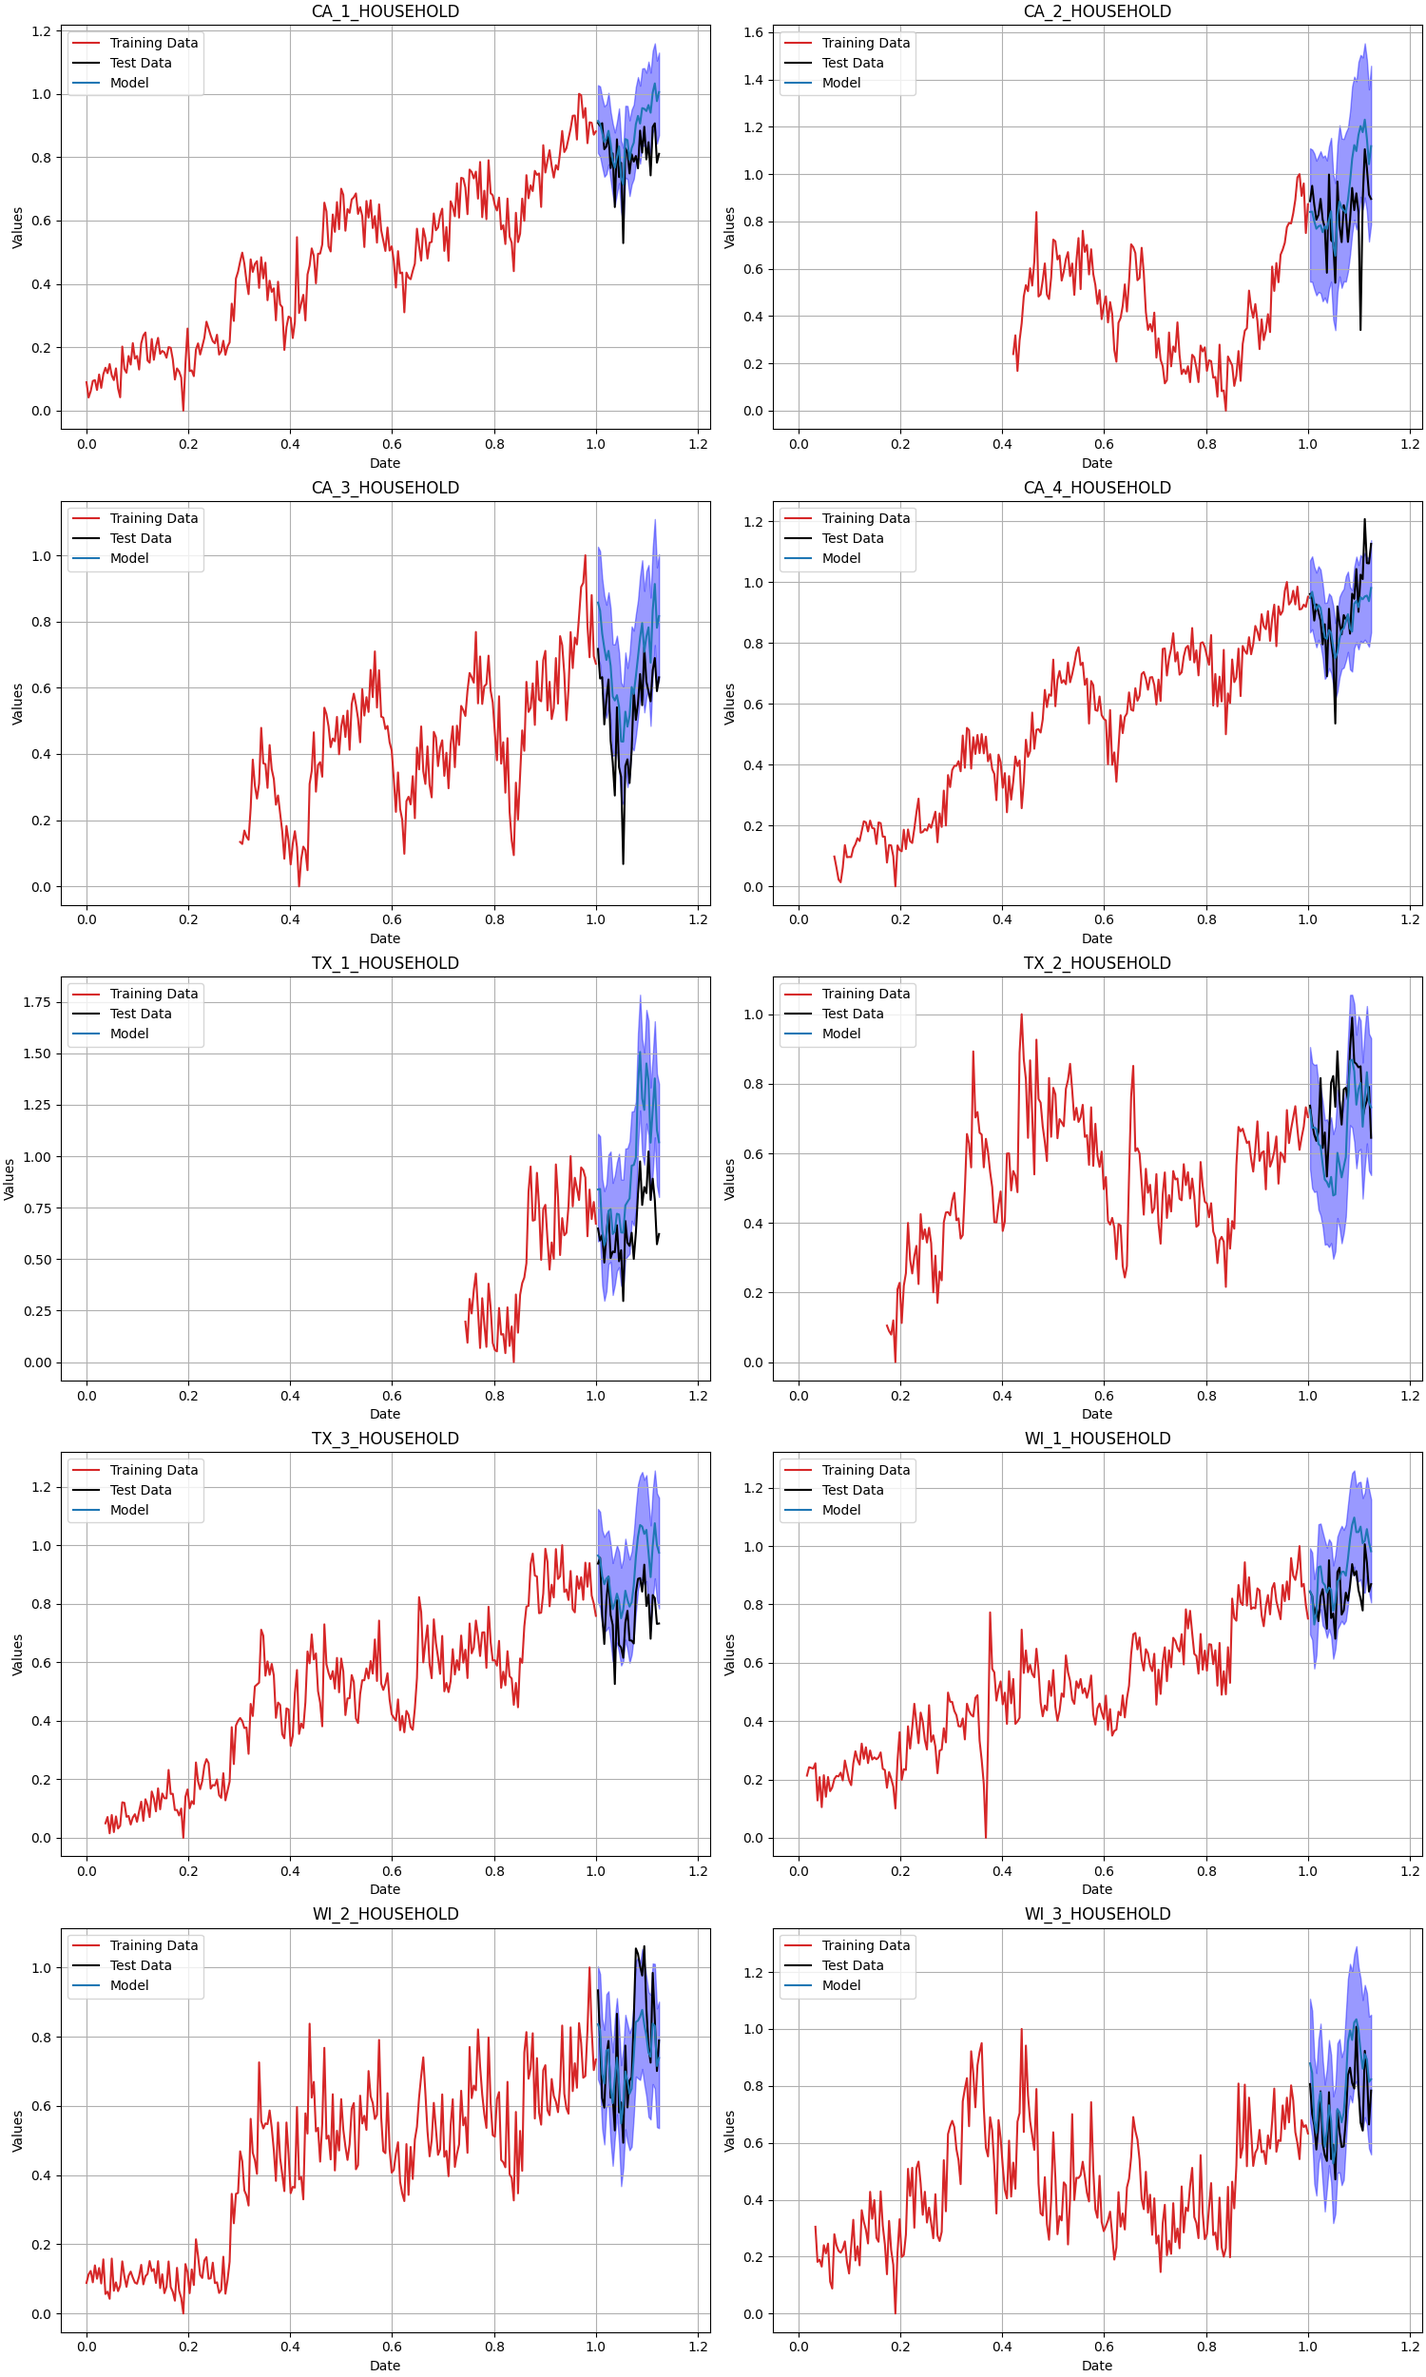
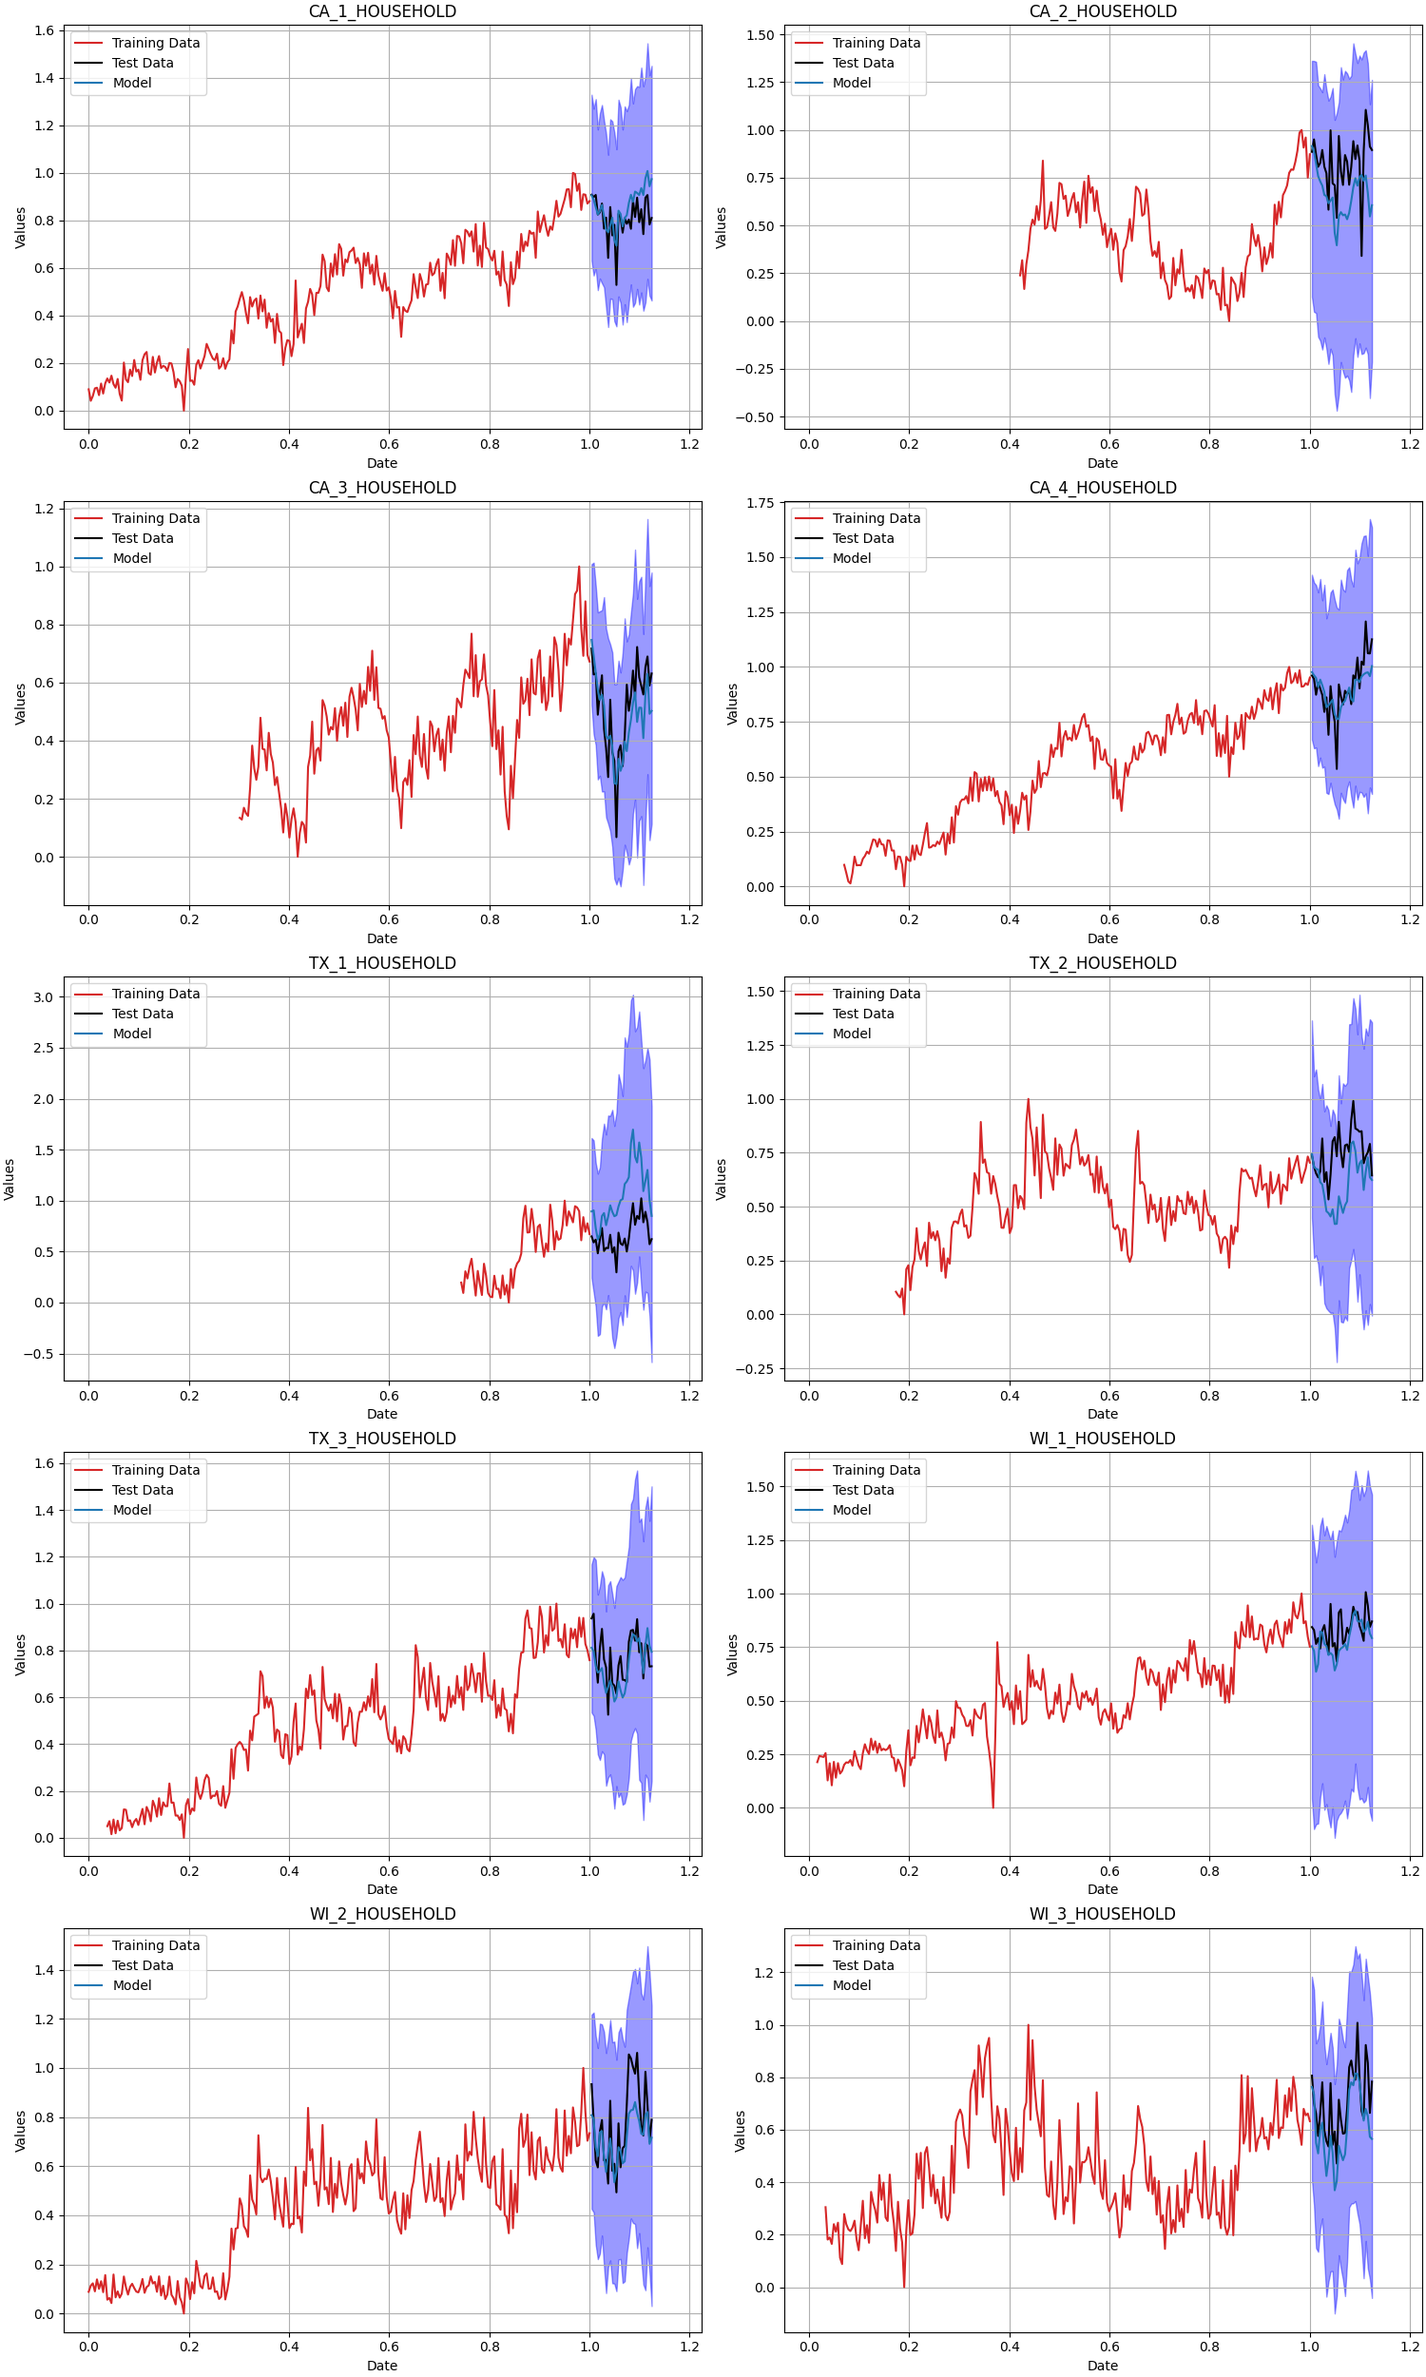
a first version of including an autoregressive term

diff --git a/src/sorcerer/sorcerer_model.py b/src/sorcerer/sorcerer_model.py
@@ -23,7 +23,7 @@ from sorcerer.config import (
     serialize_model_config,
 )
 
-from sorcerer.model_components import generate_mean
+from sorcerer.model_components import trend_and_fourier_terms
 
 from sorcerer.utils import (
     generate_hash_id,
@@ -58,23 +58,52 @@ class SorcererModel:
         
     def build_model(self, X, Y):        
         with pm.Model() as self.training_model:
-            target_mean = generate_mean(
+            trend_and_fourier_parts = trend_and_fourier_terms(
                     X = X,
                     baseline_slope = self.baseline_slope,
                     baseline_bias = self.baseline_bias,
                     model_config = self.model_config,
                     model = self.training_model
                     )
+            if self.model_config['autoregressive_order'] > 0:
+                number_of_time_series = self.baseline_slope.shape[0]
+                rho = pm.Normal(
+                    name = 'rho',
+                    mu = self.model_config['rho_mu_prior'],
+                    sigma = self.model_config['rho_sigma_prior'],
+                    shape = (number_of_time_series, self.model_config['autoregressive_order'])
+                    )
+                ar_precision_prior = pm.Gamma(
+                    name = 'ar_precision_prior',
+                    alpha = self.model_config['ar_precision_alpha_prior'],
+                    beta = self.model_config['ar_precision_beta_prior']
+                    )  
+                initial_distribution = pm.Normal.dist(
+                    mu = self.model_config['init_mu_prior'],
+                    sigma = self.model_config['init_sigma_prior'],
+                    shape = (number_of_time_series, self.model_config['autoregressive_order'])
+                    )
+                autoregressive_part = pm.AR(
+                    name = 'autoregressive_part',
+                    rho = rho,
+                    sigma = 1/ar_precision_prior,
+                    init_dist = initial_distribution,
+                    constant = False,
+                    dims = ['number_of_time_series', 'number_of_observations']
+                ).T
+            else:
+                autoregressive_part = 0
+   
             precision_target = pm.Gamma(
-            'precision_target_distribution',
-            alpha = self.model_config["precision_target_distribution_prior_alpha"],
-            beta = self.model_config["precision_target_distribution_prior_beta"],
-            dims = 'number_of_time_series'
+                name = 'precision_target',
+                alpha = self.model_config["precision_target_distribution_prior_alpha"],
+                beta = self.model_config["precision_target_distribution_prior_beta"],
+                shape = number_of_time_series
             )
             pm.Normal(
-                'target_distribution',
-                mu = target_mean,
-                sigma=1/precision_target,
+                name = 'target_distribution',
+                mu = trend_and_fourier_parts + autoregressive_part,
+                sigma = 1/precision_target,
                 observed = Y,
                 dims=['number_of_observations', 'number_of_time_series']
                 )
@@ -96,6 +125,11 @@ class SorcererModel:
          )  = normalize_training_data(training_data = training_data)
         self.build_model(X = X, Y = Y)
         self.sampler_config = (get_default_sampler_config() if sampler_config is None else sampler_config)
+        
+        if not self.sampler_config.get("return_inferencedata", False):
+            self.sampler_config['return_inferencedata'] = True
+            self.logger.warning("InferenceWarning: return_inferencedata forced to be true")
+
         if not self.sampler_config['verbose']:
             self.logger.setLevel(logging.CRITICAL)
             self.sampler_config['progressbar'] = False
@@ -113,7 +147,9 @@ class SorcererModel:
                     sampler=pm.HamiltonianMC()
                 if self.sampler_config['sampler'] == "metropolis":
                     sampler=pm.Metropolis()
-                idata_temp = pm.sample(step = sampler, **{k: v for k, v in self.sampler_config.items() if (k != 'sampler' and k != 'verbose')})
+                idata_temp = pm.sample(
+                    step = sampler,
+                    **{k: v for k, v in self.sampler_config.items() if (k != 'sampler' and k != 'verbose')})
                 self.idata = self.set_idata_attrs(idata_temp)
 
     def set_idata_attrs(self, idata=None):
@@ -134,25 +170,57 @@ class SorcererModel:
         **kwargs
     ) -> Tuple[np.ndarray, np.ndarray]:
         X_test = (test_data['date'].astype('int64')//10**9 - self.x_training_min)/(self.x_training_max - self.x_training_min)
+        
+        
         with pm.Model() as self.testing_model:
-            target_mean = generate_mean(
+            
+            trend_and_fourier_parts = trend_and_fourier_terms(
                     X = X_test,
                     baseline_slope = self.baseline_slope,
                     baseline_bias = self.baseline_bias,
                     model_config = self.model_config,
                     model = self.testing_model
                     )
+            if self.model_config['autoregressive_order'] > 0:
+                number_of_time_series = self.baseline_slope.shape[0]
+                self.testing_model.add_coords({"number_of_observations_minus_one": range(- 1, X_test.shape[0], 1)})
+                rho = pm.Normal(
+                    name = 'rho',
+                    mu = self.model_config['rho_mu_prior'],
+                    sigma = self.model_config['rho_sigma_prior'],
+                    shape = (number_of_time_series, self.model_config['autoregressive_order'])
+                    )
+                ar_precision_prior = pm.Gamma(
+                    name = 'ar_precision_prior',
+                    alpha = self.model_config['ar_precision_alpha_prior'],
+                    beta = self.model_config['ar_precision_beta_prior']
+                    )  
+                initial_distribution = pm.DiracDelta.dist(
+                    c = self.idata.posterior['autoregressive_part'].mean(('chain','draw')).values[:,-self.model_config['autoregressive_order']:],
+                    shape = (number_of_time_series, self.model_config['autoregressive_order'])
+                    )
+                autoregressive_part = pm.AR(
+                    name = 'autoregressive_part',
+                    rho = rho,
+                    sigma = 1/ar_precision_prior,
+                    init_dist = initial_distribution,
+                    constant = False,
+                    dims = ['number_of_time_series', 'number_of_observations_minus_one']
+                ).T
+            else:
+                autoregressive_part = 0
+
             precision_target = pm.Gamma(
-            'precision_target_distribution',
-            alpha = self.model_config["precision_target_distribution_prior_alpha"],
-            beta = self.model_config["precision_target_distribution_prior_beta"],
-            dims = 'number_of_time_series'
+                name = 'precision_target',
+                alpha = self.model_config["precision_target_distribution_prior_alpha"],
+                beta = self.model_config["precision_target_distribution_prior_beta"],
+                shape = number_of_time_series
             )
             pm.Normal(
-                'predictions',
-                mu = target_mean,
-                sigma=1/precision_target,
-                dims=['number_of_observations', 'number_of_time_series']
+                name = 'predictions',
+                mu = trend_and_fourier_parts+autoregressive_part[1:,:],
+                sigma = 1/precision_target,
+                dims = ['number_of_observations', 'number_of_time_series']
                 )
             if self.sampler_config['sampler'] == "MAP":
                 if not self.sampler_config['verbose']:

diff --git a/src/sorcerer/model_components.py b/src/sorcerer/model_components.py
@@ -9,7 +9,7 @@ import pymc as pm
 import pytensor as pt
 from sorcerer.utils import create_fourier_features
 
-def generate_mean(
+def trend_and_fourier_terms(
         X: pd.Series,
         baseline_slope: pd.Series,
         baseline_bias: pd.Series,
@@ -28,9 +28,27 @@ def generate_mean(
         
         s = pt.tensor.linspace(0, 1, model_config["number_of_individual_trend_changepoints"] + 2)[1:-1] # max(x) for input is by definition 1
         A = (x[:, None] > s) * 1.
-        k = pm.Normal('trend_k', mu=baseline_slope, sigma=model_config["k_sigma_prior"], shape=number_of_time_series)
-        delta = pm.Laplace('trend_delta', mu=model_config["delta_mu_prior"], b=model_config["delta_b_prior"], shape=(number_of_time_series, model_config["number_of_individual_trend_changepoints"]))
-        m = pm.Normal('trend_m', mu=baseline_bias, sigma=model_config["m_sigma_prior"], shape=number_of_time_series)
+        k = pm.Normal(
+            name = 'trend_k',
+            mu=baseline_slope,
+            sigma=model_config["k_sigma_prior"],
+            shape=number_of_time_series
+            )
+        delta = pm.Laplace(
+            name = 'trend_delta',
+            mu = model_config["delta_mu_prior"],
+            b = model_config["delta_b_prior"],
+            shape = (
+                number_of_time_series,
+                model_config["number_of_individual_trend_changepoints"]
+                )
+            )
+        m = pm.Normal(
+            name = 'trend_m',
+            mu = baseline_bias,
+            sigma = model_config["m_sigma_prior"],
+            shape=number_of_time_series
+            )
         trend_term = (k + pm.math.dot(A, delta.T)) * x[:, None] + m + pm.math.dot(A, (-s * delta).T)
         
         seasonality_individual = pm.math.zeros((number_of_observations, number_of_time_series))
@@ -40,10 +58,10 @@ def generate_mean(
             
             # Define distinct variable names for coefficients
             fourier_coefficients = pm.Normal(
-                f'fourier_coefficients_{round(seasonality_period_baseline, 2)}',
-                mu=model_config["fourier_mu_prior"],
-                sigma=model_config["fourier_sigma_prior"],
-                shape=(2 * number_of_fourier_components, number_of_time_series)
+                name = f'fourier_coefficients_{round(seasonality_period_baseline, 2)}',
+                mu = model_config["fourier_mu_prior"],
+                sigma = model_config["fourier_sigma_prior"],
+                shape = (2 * number_of_fourier_components, number_of_time_series)
             )
             
             # Create Fourier features
@@ -62,10 +80,10 @@ def generate_mean(
                 
                 # Define distinct variable names for coefficients
                 fourier_coefficients = pm.Normal(
-                    f'fourier_coefficients_shared_{round(seasonality_period_baseline, 2)}',
-                    mu=model_config["fourier_mu_prior"],
-                    sigma=model_config["fourier_sigma_prior"],
-                    shape=(2 * number_of_fourier_components, 1)
+                    name = f'fourier_coefficients_shared_{round(seasonality_period_baseline, 2)}',
+                    mu = model_config["fourier_mu_prior"],
+                    sigma = model_config["fourier_sigma_prior"],
+                    shape = (2 * number_of_fourier_components, 1)
                 )
                 
                 # Create Fourier features
@@ -83,15 +101,15 @@ def generate_mean(
             shared_seasonalities = pm.math.concatenate(shared_seasonalities, axis=1)
             
             prior_probability_shared_seasonality = pm.Beta(
-                'prior_probability_shared_seasonality',
-                alpha=model_config["prior_probability_shared_seasonality_alpha"],
-                beta=model_config["prior_probability_shared_seasonality_beta"],
+                name = 'prior_probability_shared_seasonality',
+                alpha = model_config["prior_probability_shared_seasonality_alpha"],
+                beta = model_config["prior_probability_shared_seasonality_beta"],
                 shape = number_of_time_series
                 )
             include_seasonality = pm.Bernoulli(
-                'include_seasonality',
-                p=prior_probability_shared_seasonality,
-                shape=(len(model_config["shared_fourier_terms"]), number_of_time_series)
+                name = 'include_seasonality',
+                p = prior_probability_shared_seasonality,
+                shape = (len(model_config["shared_fourier_terms"]), number_of_time_series)
             )
             shared_seasonality = pm.math.dot(shared_seasonalities, include_seasonality)
         else:

diff --git a/examples/main.py b/examples/main.py
@@ -20,7 +20,7 @@ for col, n in zip(time_series_column_group, nan_count):
     df.loc[:n-1, col] = np.nan
 #%%
 model_name = "SorcererModel"
-model_version = "v0.4.0"
+model_version = "v0.5.0"
 forecast_horizon = 30
 
 training_data = df.iloc[:-forecast_horizon]
@@ -28,12 +28,13 @@ test_data = df.iloc[-forecast_horizon:]
 
 # Sorcerer
 sampler_config = {
-    "draws": 2000,
-    "tune": 500,
+    "draws": 200,
+    "tune": 50,
     "chains": 1,
     "cores": 1,
     "sampler": "NUTS",
-    "verbose": True
+    "verbose": True,
+    "return_inferencedata": True
 }
 
 number_of_weeks_in_a_year = 52.1429
@@ -50,6 +51,15 @@ model_config = {
     "precision_target_distribution_prior_beta": 0.1,
     "prior_probability_shared_seasonality_alpha": 1,
     "prior_probability_shared_seasonality_beta": 1,
+    "autoregressive_order": 1,
+    "rho_mu_prior": 1,
+    "rho_sigma_prior": 1,
+    "ar_precision_alpha_prior": 100,
+    "ar_precision_beta_prior": 0.1,
+    "init_mu_prior": 1,
+    "init_sigma_prior": 1,
+    
+        
     "individual_fourier_terms": [
         {'seasonality_period_baseline': number_of_weeks_in_a_year,'number_of_fourier_components': 20}
     ],
